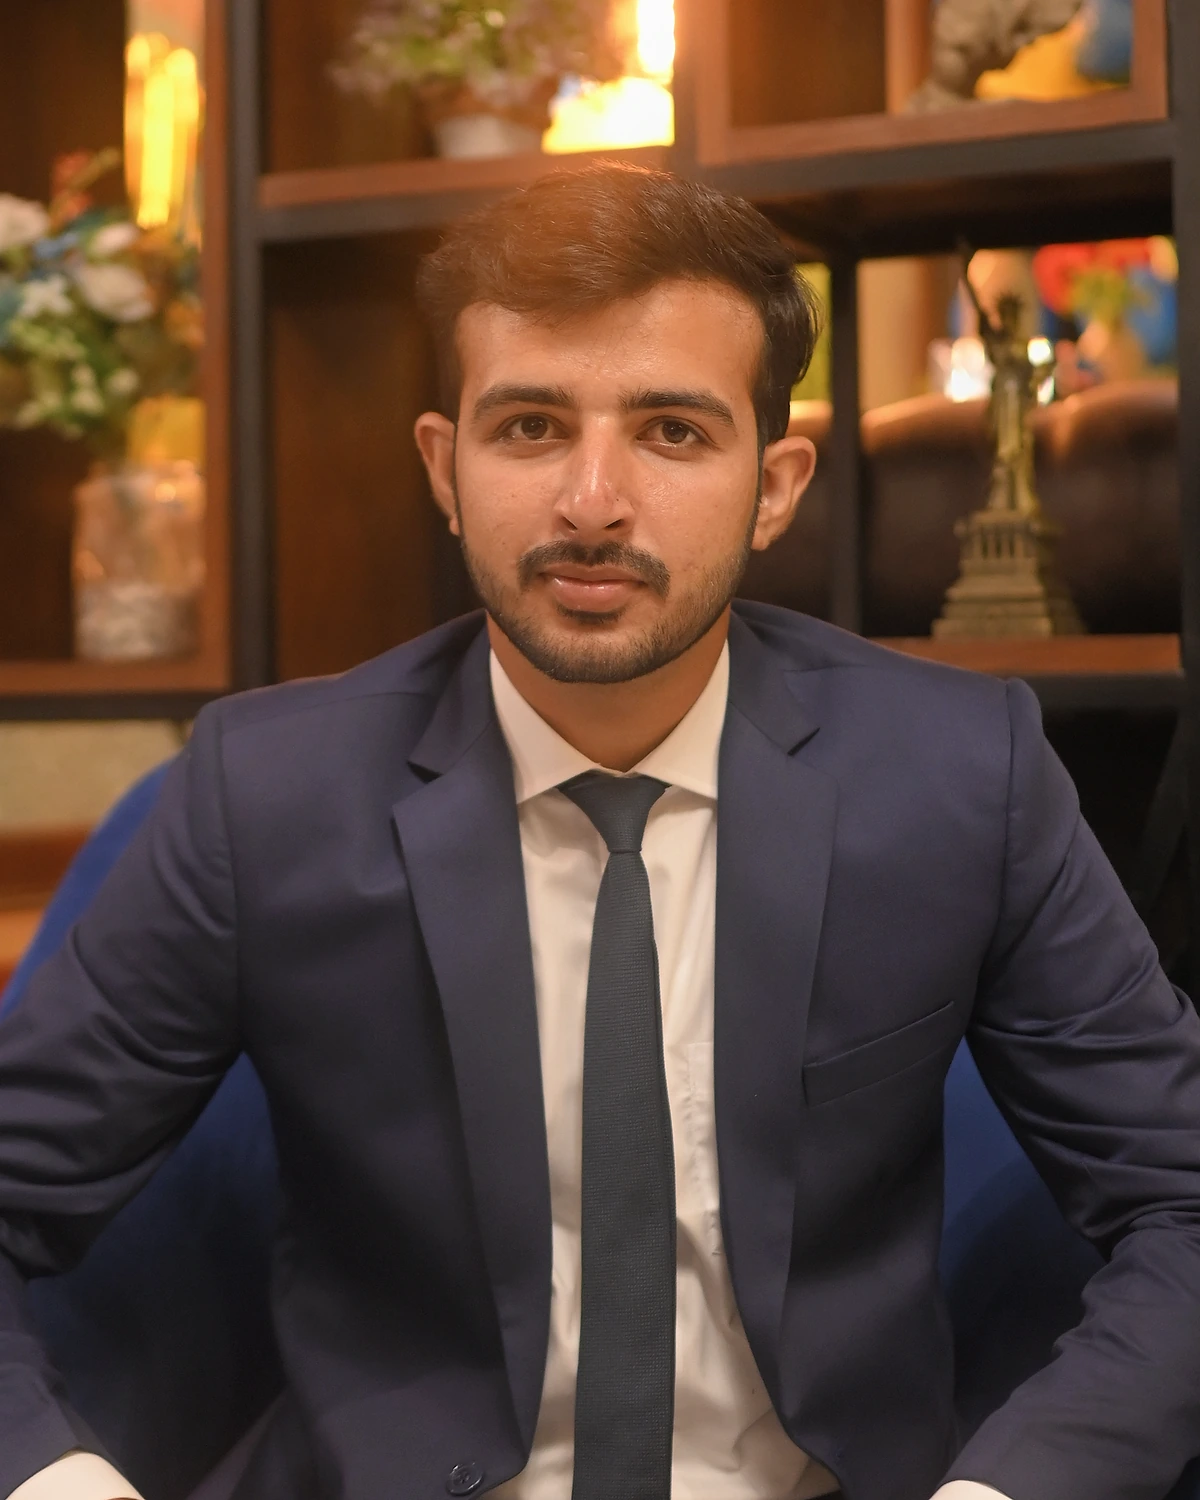
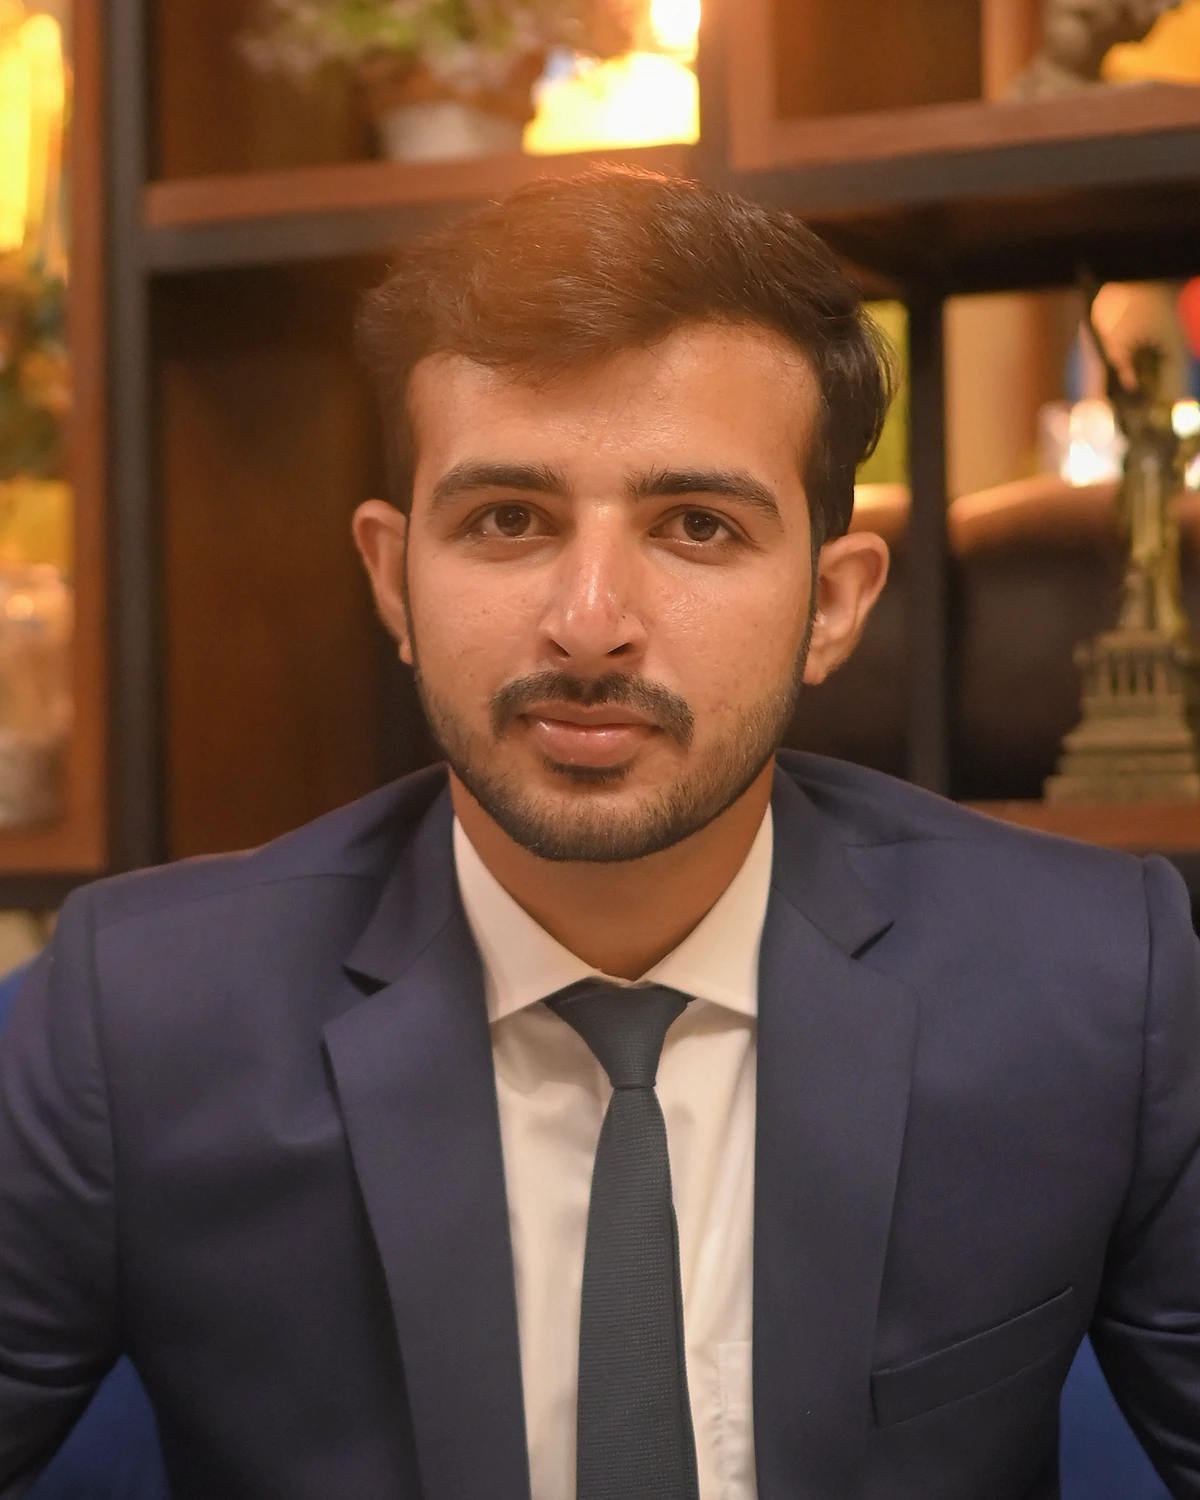
feat: compose the portrait as a plate
The photograph read as a box dropped into the layout rather than a designed
element. Three changes, none of them colour:

- Tighter crop. The subject occupied roughly 40% of the frame, so the shelving,
  flowers and statue behind him competed with the face. Recropped from 2271px
  to 1700px of source width, which puts the face where the eye goes first and
  pushes most of the venue out of frame. The crop is doing the work a filter
  was wrongly asked to do earlier.

- A caption strip inside the frame: label left, spec right. It deliberately
  mirrors the load-trace figure directly beneath it, so the two read as parts
  of one instrument instead of a photo sitting above an unrelated chart.

- A vignette that is elliptical and centred slightly high, so it falls on the
  background rather than on the face. Plus a fade into the caption strip so the
  plate does not end on a hard line.

Also corrects the empty-state copy, which still promised the photo would be
'duotoned to the palette' after the grading was removed, and now points at the
preparation script.

diff --git a/src/components/ui/portrait.tsx b/src/components/ui/portrait.tsx
@@ -2,19 +2,16 @@ import Image from 'next/image';
 import { getPortraitStatus } from '@/lib/portrait';
 import { site } from '@/data/site';
 import { MonoLabel } from '@/components/ui/mono-label';
+import { cn } from '@/lib/utils';
 
 /**
- * Portrait, treated rather than dropped in.
+ * Portrait, composed as a plate rather than dropped in as a photo.
  *
- * A circular avatar would sit outside this design entirely. Instead the photo
- * is handled the way every other surface here is: a duotone plate inside the
- * rule frame, warmed toward the palette so it belongs to the page rather than
- * floating on it, with the same grain over the top.
- *
- * The colour resolves on hover and on keyboard focus. That is the site's one
- * piece of pure delight, and it is still doing a job — it mirrors the
- * progressive-resolution idea the rest of the page is built on, rather than
- * animating for its own sake. Under reduced motion it simply arrives resolved.
+ * The photograph itself is shown as shot — an earlier version graded it and
+ * that was a mistake. What makes it belong here is composition, not colour: a
+ * hairline frame with the same corner ticks used everywhere else, a caption
+ * that rhymes with the load-trace figure beneath it (label left, spec right),
+ * and a vignette that lets a busy venue recede behind the subject.
  *
  * Server Component: the file check runs at build time and ships as static
  * markup.
@@ -24,38 +21,50 @@ export function Portrait({ className }: { className?: string }) {
 
   if (!portrait.available) {
     return (
-      <div className={`rule-frame p-5 ${className ?? ''}`}>
+      <div className={cn('rule-frame p-5', className)}>
         <MonoLabel tone="flow">portrait</MonoLabel>
         <p className="mt-3 text-meta text-pretty text-paper-500">
           Not published yet. Drop a photo at{' '}
           <code className="font-mono text-micro text-paper-400">
             {portrait.expectedPath}
           </code>{' '}
-          — <code className="font-mono text-micro text-paper-400">.avif</code>,{' '}
-          <code className="font-mono text-micro text-paper-400">.webp</code>,{' '}
+          — <code className="font-mono text-micro text-paper-400">.webp</code>,{' '}
           <code className="font-mono text-micro text-paper-400">.jpg</code> or{' '}
           <code className="font-mono text-micro text-paper-400">.png</code> all work —
-          and it appears automatically, duotoned to the palette.
+          or run{' '}
+          <code className="font-mono text-micro text-paper-400">
+            scripts/prepare-portrait.mts
+          </code>{' '}
+          against a camera original to crop and compress it first.
         </p>
       </div>
     );
   }
 
   return (
-    <figure className={`portrait group m-0 ${className ?? ''}`}>
-      <div className="rule-frame relative overflow-hidden rounded-sm">
-        <div className="portrait-plate relative aspect-4/5 w-full">
+    <figure className={cn('portrait group m-0', className)}>
+      <div className="rule-frame overflow-hidden rounded-sm border border-rule bg-ink-850">
+        <div className="portrait-plate relative aspect-4/5 w-full overflow-hidden">
           <Image
             src={portrait.src}
             alt={`${site.name}, ${site.role}`}
             fill
-            // Sized for the hero column at each breakpoint so the browser never
-            // downloads a larger file than it can display.
+            // Sized for the hero column at each breakpoint, so the browser
+            // never downloads a larger file than it can display.
             sizes="(min-width: 1024px) 22rem, (min-width: 640px) 18rem, 60vw"
             priority
             className="object-cover"
           />
         </div>
+
+        {/* A plate caption, not a photo credit. It mirrors the load-trace
+            figure directly beneath — label left, spec right — so the two read
+            as parts of one instrument rather than a photo sitting above an
+            unrelated chart. */}
+        <figcaption className="flex items-center justify-between gap-3 border-t border-rule px-4 py-2.5">
+          <MonoLabel tone="flow">identity/portrait</MonoLabel>
+          <MonoLabel>4:5</MonoLabel>
+        </figcaption>
       </div>
     </figure>
   );

diff --git a/src/styles/globals.css b/src/styles/globals.css
@@ -140,16 +140,16 @@ body {
 /* ---------------------------------------------------------------------------
    Portrait
 
-   Shown essentially as shot. Two earlier versions graded it heavily — first an
-   amber-to-teal duotone in `color` blend mode, then a lighter warm wash — and
-   both made the subject look ill. The lesson is the honest one: a good
+   Shown as shot. Two earlier versions graded the photograph — first an
+   amber-to-teal duotone in `color` blend mode, which drained skin to olive,
+   then a lighter warm wash that was still wrong. The useful lesson: a good
    photograph does not need a filter to belong on a page, and a treatment that
    has to be tuned repeatedly is a treatment that is not working.
 
-   What remains is only what serves the layout: a soft fade at the very bottom
-   so the plate settles into the page instead of ending on a hard edge, and a
-   restrained corner vignette so the venue behind the subject recedes. No
-   colour manipulation at all.
+   What makes it sit in the page is composition, not colour. The crop does most
+   of the work; these rules only finish the edges — a vignette so the venue
+   behind the subject recedes, and a fade into the caption strip so the plate
+   does not end on a hard line. No colour manipulation.
    --------------------------------------------------------------------------- */
 
 .portrait-plate img {
@@ -163,17 +163,20 @@ body {
   z-index: 2;
   pointer-events: none;
   background:
+    /* Elliptical and centred slightly high, so it falls on the background
+       rather than on the face. */
     radial-gradient(
-      130% 95% at 50% 40%,
-      transparent 58%,
-      color-mix(in oklab, var(--color-ink-950) 55%, transparent) 100%
+      118% 78% at 50% 34%,
+      transparent 45%,
+      color-mix(in oklab, var(--color-ink-950) 32%, transparent) 78%,
+      color-mix(in oklab, var(--color-ink-950) 72%, transparent) 100%
     ),
-    linear-gradient(to top, var(--color-ink-900) 0%, transparent 22%);
+    linear-gradient(to top, var(--color-ink-900) 0%, transparent 18%);
 }
 
 .portrait:hover .portrait-plate img,
 .portrait:focus-within .portrait-plate img {
-  transform: scale(1.02);
+  transform: scale(1.025);
 }
 
 @media (prefers-reduced-motion: reduce) {
